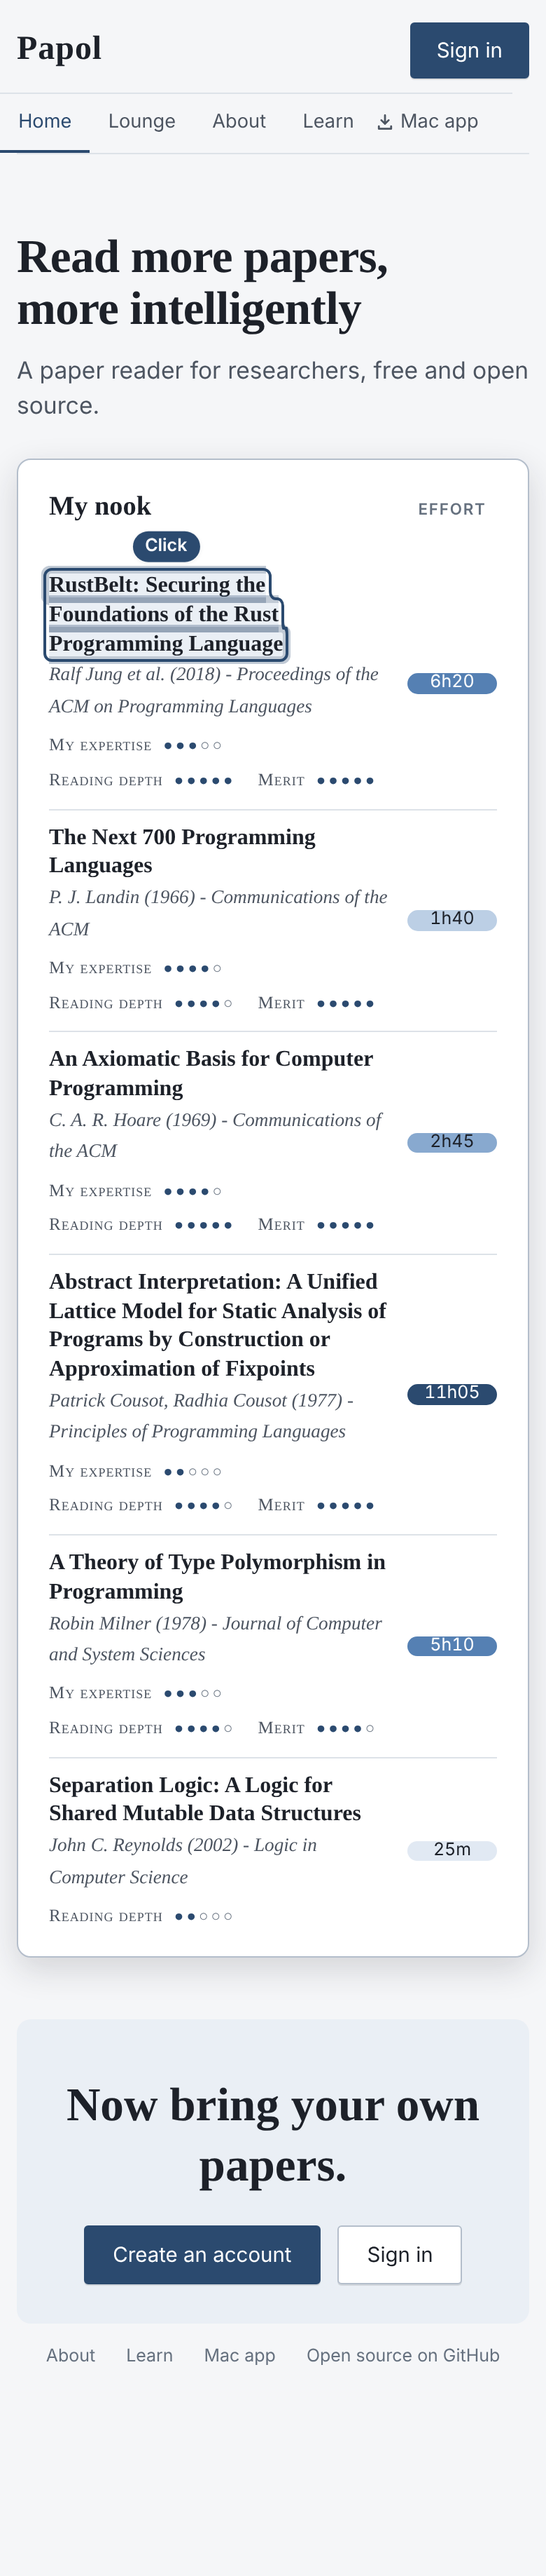
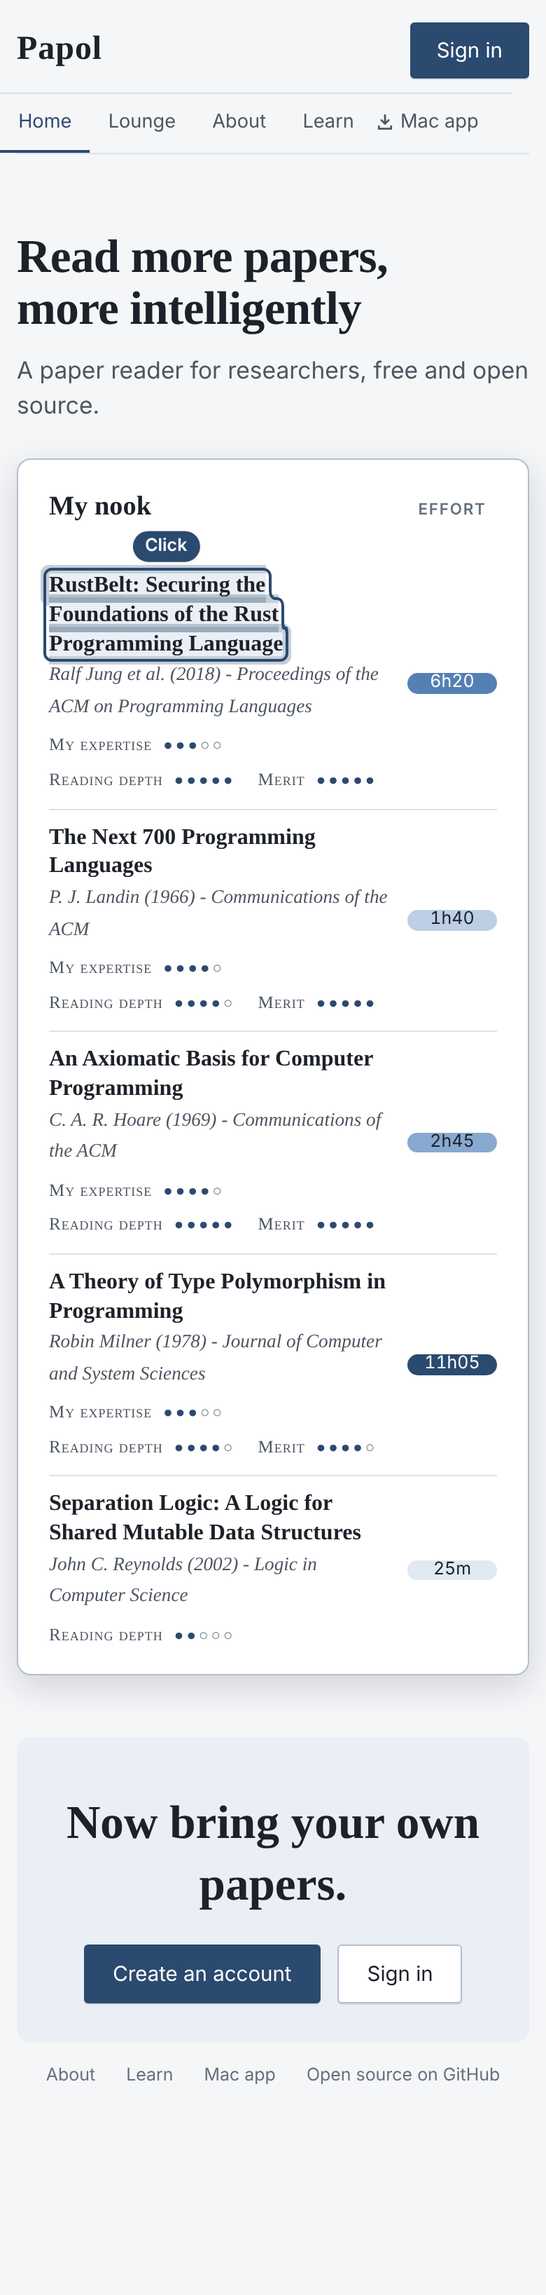
The landing nook lists five papers
Abstract Interpretation is taken out.

Claude-Session: https://claude.ai/code/session_01PQZzMUS3tB21Bk48RQwY8X

diff --git a/frontend/src/components/HomeNook.jsx b/frontend/src/components/HomeNook.jsx
@@ -24,14 +24,9 @@ const PAPERS = [
     seconds: 2 * HOUR + 45 * 60, rating_expertise: 4, rating_reading: 5, rating_liking: 5,
   },
   {
-    title: 'Abstract Interpretation: A Unified Lattice Model for Static Analysis of Programs by Construction or Approximation of Fixpoints',
-    meta: 'Patrick Cousot, Radhia Cousot (1977) - Principles of Programming Languages',
-    seconds: 11 * HOUR + 5 * 60, rating_expertise: 2, rating_reading: 4, rating_liking: 5,
-  },
-  {
     title: 'A Theory of Type Polymorphism in Programming',
     meta: 'Robin Milner (1978) - Journal of Computer and System Sciences',
-    seconds: 5 * HOUR + 10 * 60, rating_expertise: 3, rating_reading: 4, rating_liking: 4,
+    seconds: 11 * HOUR + 5 * 60, rating_expertise: 3, rating_reading: 4, rating_liking: 4,
   },
   {
     title: 'Separation Logic: A Logic for Shared Mutable Data Structures',
